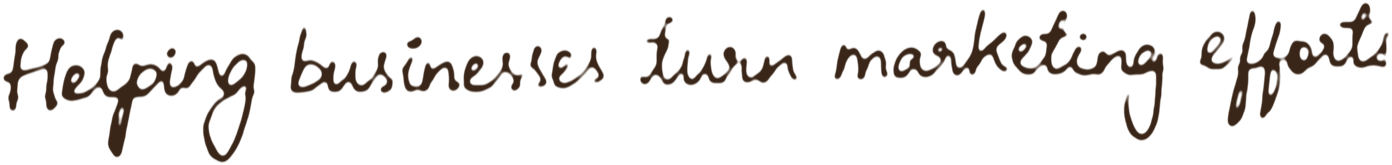
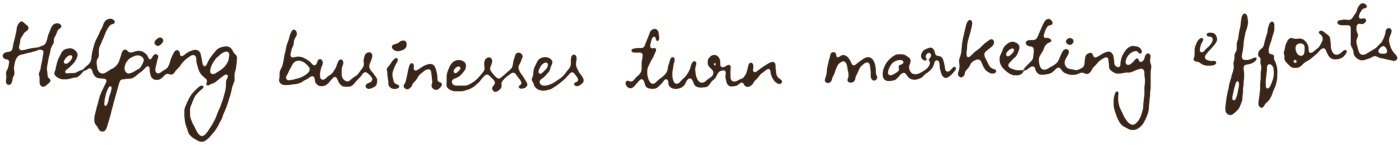
Handwriting: her latest sample, paper and ruled lines removed, ink kept natural

Changed region(s): [[0.0, 0.0276, 1.0, 0.9931]]

diff --git a/index.html b/index.html
@@ -11,11 +11,11 @@
 <link rel="preconnect" href="https://fonts.googleapis.com" />
 <link rel="preconnect" href="https://fonts.gstatic.com" crossorigin />
 <link href="https://fonts.googleapis.com/css2?family=Fraunces:opsz,wght,SOFT@9..144,400..800,50&display=swap" rel="stylesheet" />
-<link rel="stylesheet" href="styles/main.css?v=20261111t" />
+<link rel="stylesheet" href="styles/main.css?v=20261111u" />
 <link rel="icon" type="image/png" href="assets/logo-hy.png" />
 <!-- first-screen images: start downloading immediately (keep ?v in sync with ASSET_V in app.js) -->
-<link rel="preload" as="image" href="assets/objects/notebook.avif?v=20261111t" fetchpriority="high" />
-<link rel="preload" as="image" href="assets/signature.png?v=20261111t" fetchpriority="high" />
+<link rel="preload" as="image" href="assets/objects/notebook.avif?v=20261111u" fetchpriority="high" />
+<link rel="preload" as="image" href="assets/signature.png?v=20261111u" fetchpriority="high" />
 
 <!-- JSON-LD -->
 <script type="application/ld+json">
@@ -177,6 +177,6 @@
 <script src="vendor/ScrollTrigger.min.js"></script>
 <script src="vendor/lenis.min.js"></script>
 
-<script type="module" src="scripts/app.js?v=20261111t"></script>
+<script type="module" src="scripts/app.js?v=20261111u"></script>
 </body>
 </html>

diff --git a/scripts/app.js b/scripts/app.js
@@ -1,9 +1,9 @@
 // app.js — motion orchestration, desk interactions, section rendering.
-import { play, playFile } from "./sound.js?v=20261111t";
-import { initMusic } from "./music.js?v=20261111t";
+import { play, playFile } from "./sound.js?v=20261111u";
+import { initMusic } from "./music.js?v=20261111u";
 import {
   meta, about, kit, tools, experience, projects, playlist,
-} from "./content.js?v=20261111t";
+} from "./content.js?v=20261111u";
 
 const { gsap, ScrollTrigger, Lenis } = window;
 gsap.registerPlugin(ScrollTrigger);
@@ -13,7 +13,7 @@ const isMobile = matchMedia("(max-width: 860px)").matches;
 const $ = (s, r = document) => r.querySelector(s);
 const $$ = (s, r = document) => [...r.querySelectorAll(s)];
 // bump with the ?v= in index.html whenever an image in assets/ is replaced, so browsers refetch it
-const ASSET_V = "20261111t";
+const ASSET_V = "20261111u";
 
 // ------------------------------------------------------------------
 // Single shared RAF: Lenis + GSAP ticker

diff --git a/scripts/content.js b/scripts/content.js
@@ -58,8 +58,8 @@ export const kit = [
       // her own handwriting for the title and tagline (transparent PNGs, ink #3A2618).
       // Each entry = the lines of one block; the text above stays for screen readers / search.
       hand: [
-        [{ src: "assets/hand-title.png", w: 1400, h: 287, tilt: 1.7 }],
-        [{ src: "assets/hand-tagline-1.png", w: 1392, h: 165, tilt: 1.2 }, { src: "assets/hand-tagline-2.png", w: 843, h: 133, tilt: 1.2 }],
+        [{ src: "assets/hand-title.png", w: 1199, h: 222, tilt: -1 }],
+        [{ src: "assets/hand-tagline-1.png", w: 1400, h: 145, tilt: 0.7 }, { src: "assets/hand-tagline-2.png", w: 845, h: 120, tilt: 0.7 }],
       ] },
     desk: { x: 19, y: 12, w: 58, r: -10 },
     chaos: { x: 3, y: 53, w: 38, r: 0 },   // chaos mode: pushed to the bottom-left corner

diff --git a/scripts/music.js b/scripts/music.js
@@ -7,7 +7,7 @@
 //    press of play, so nothing from Spotify loads until a visitor asks for music.
 //    Logged-in Spotify users hear full songs; everyone else hears 30-second previews.
 
-import { isMuted, setMuted } from "./sound.js?v=20261111t";
+import { isMuted, setMuted } from "./sound.js?v=20261111u";
 
 const ICON = {
   prev: '<svg viewBox="0 0 24 24" aria-hidden="true"><path d="M11 6.5v11L2.5 12zM21.5 6.5v11L13 12z"/></svg>',
